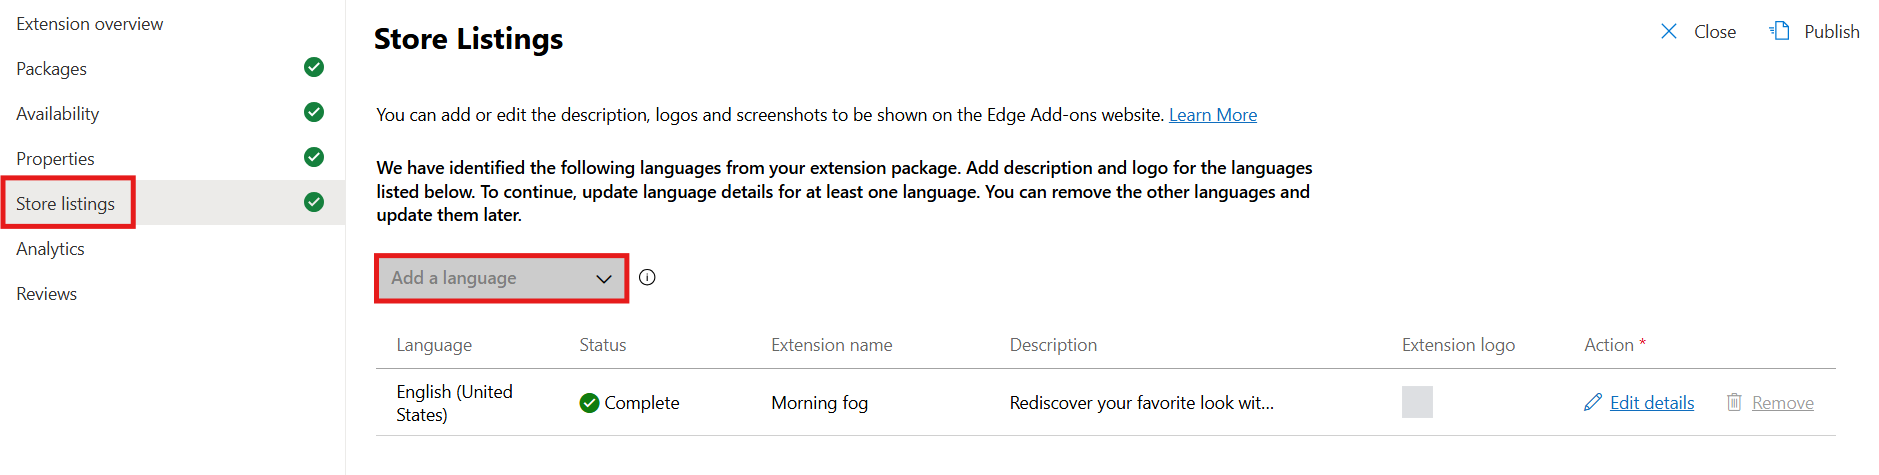
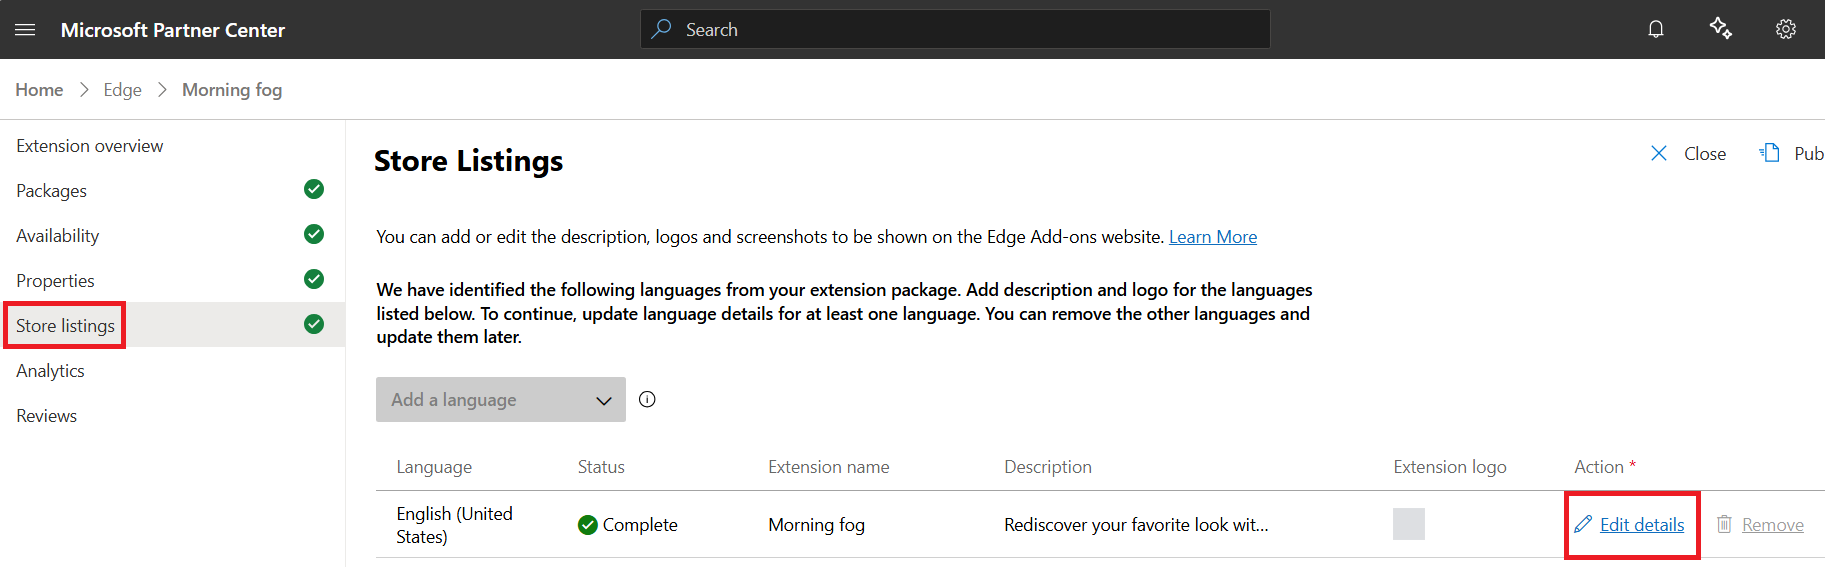
update pngs & fields

diff --git a/microsoft-edge/extensions/publish/publish-extension.md b/microsoft-edge/extensions/publish/publish-extension.md
@@ -54,9 +54,9 @@ Before uploading your package to Partner Center, inspect the manifest file to ma
 
 The following fields in the manifest file are automatically included in your extension's product listing at Microsoft Edge Add-ons.  The fields are read-only on the **Store Listings** page, which is described below.
 
-*  The `Name` field, which populates the **Display name** on the store details page.
+*  The `Name` field, which populates the **Extension name** on the **Details for \<Language\>** page.
 
-*  The `Description` field, which populates the **Short description** on the store details page.
+*  The `Description` field, which populates the **Description** on the **Details for \<Language\>** page.
    
    Fill in the `Description` field, to explicitly provide a catchy description that will be displayed at the top of the listing for the extension.
 
@@ -193,11 +193,13 @@ Define the specific markets in which you plan to offer your extension.  The defa
 
    ![Store listing section for an extension](./publish-extension-images/store-listing-section-for-extension.png)
 
-1. Click the **Edit details** button.<!-- The **Details** page opens.  todo: confirm UI -->
+1. Click the ![Edit details icon](./publish-extension-images/edit-details-icon.png) **Edit details** button.
 
-1. In the **Language details** section, fill in the following properties:
+   The **Details for \<Language\>** page opens:
 
-   <!-- todo: show screenshot showing the following fields -->
+   ![Details page](./publish-extension-images/details-page.png)
+
+1. Fill in the following properties:
 
    | Property name | Required? | Description |
    |---|---|---|
@@ -211,13 +213,11 @@ Define the specific markets in which you plan to offer your extension.  The defa
    | **Short description** | Required for at least one language | To edit the short description, you must update the description field in the manifest file of the extension package, and then re-upload the package. |
    | **Search terms** | - | Single words or phrases that help users discover the extension when searching at Microsoft Edge Add-ons.  The search terms aren't displayed to users. |
 
-   The information that's provided in the **Store Listings** page is displayed to users who view the extension's listing at [Microsoft Edge Add-ons](https://microsoftedge.microsoft.com).  Even though some fields are optional, you should provide as much information as possible.
+   The information that's provided in the **Details for \<Language\>** page is displayed to users who view the extension's listing at [Microsoft Edge Add-ons](https://microsoftedge.microsoft.com).  Even though some fields are optional, you should provide as much information as possible.
 
-   The extension package contains the manifest file; to re-upload the manifest, you must re-upload the extension package.  All the other items (such as logo or tiles) are uploaded separately by using the **Store Listings** page.
+   The extension package contains the manifest file; to re-upload the manifest, you must re-upload the extension package.  All the other items (such as logo or tiles) are uploaded separately by using the **Details for \<Language\>** page.
 
-<!-- 
-1. Click **Save** in the upper right. todo: confirm UI
--->
+1. Click **Save draft** in the upper right.
 
 
 <!-- ------------------------------ -->
@@ -227,10 +227,10 @@ To list your extension in the store, properties that are not indicated as Requir
 
 The following Required properties must be provided for _each_ language (such as U.S. English; `en-US`) that's listed in the extension's zip package:
 * **Description**
-* **Extension Store logo**
+* **Extension logo**
 
 The following Required properties must be filled in for _at least one_ of the languages that's listed in the extension's zip package:
-* **Display name**
+* **Extension name**
 * **Short description**
 
 
@@ -247,11 +247,11 @@ To add or remove languages in your store listing at [Microsoft Edge Add-ons](htt
 
    ![Add a language, in the Store Listings page](./publish-extension-images/store-listings-page.png)
 
-To duplicate a asset (such as a logo, tile, or screenshot) from one language across other languages:
-
-1. Go to the **Language details** page.<!-- todo: how? -->
-
-1. Click **Duplicate this logo for all languages** or **Duplicate these screenshots for all languages**.
+You can duplicate assets from one language to other languages by using the **Duplicate** option that's under each asset on the **Details for \<Language\>** page, such as:
+* **Extension logo**
+* **Small promotional tile**
+* **Large promotional tile**
+* **Screenshots**
 
 
 <!-- ------------------------------ -->
